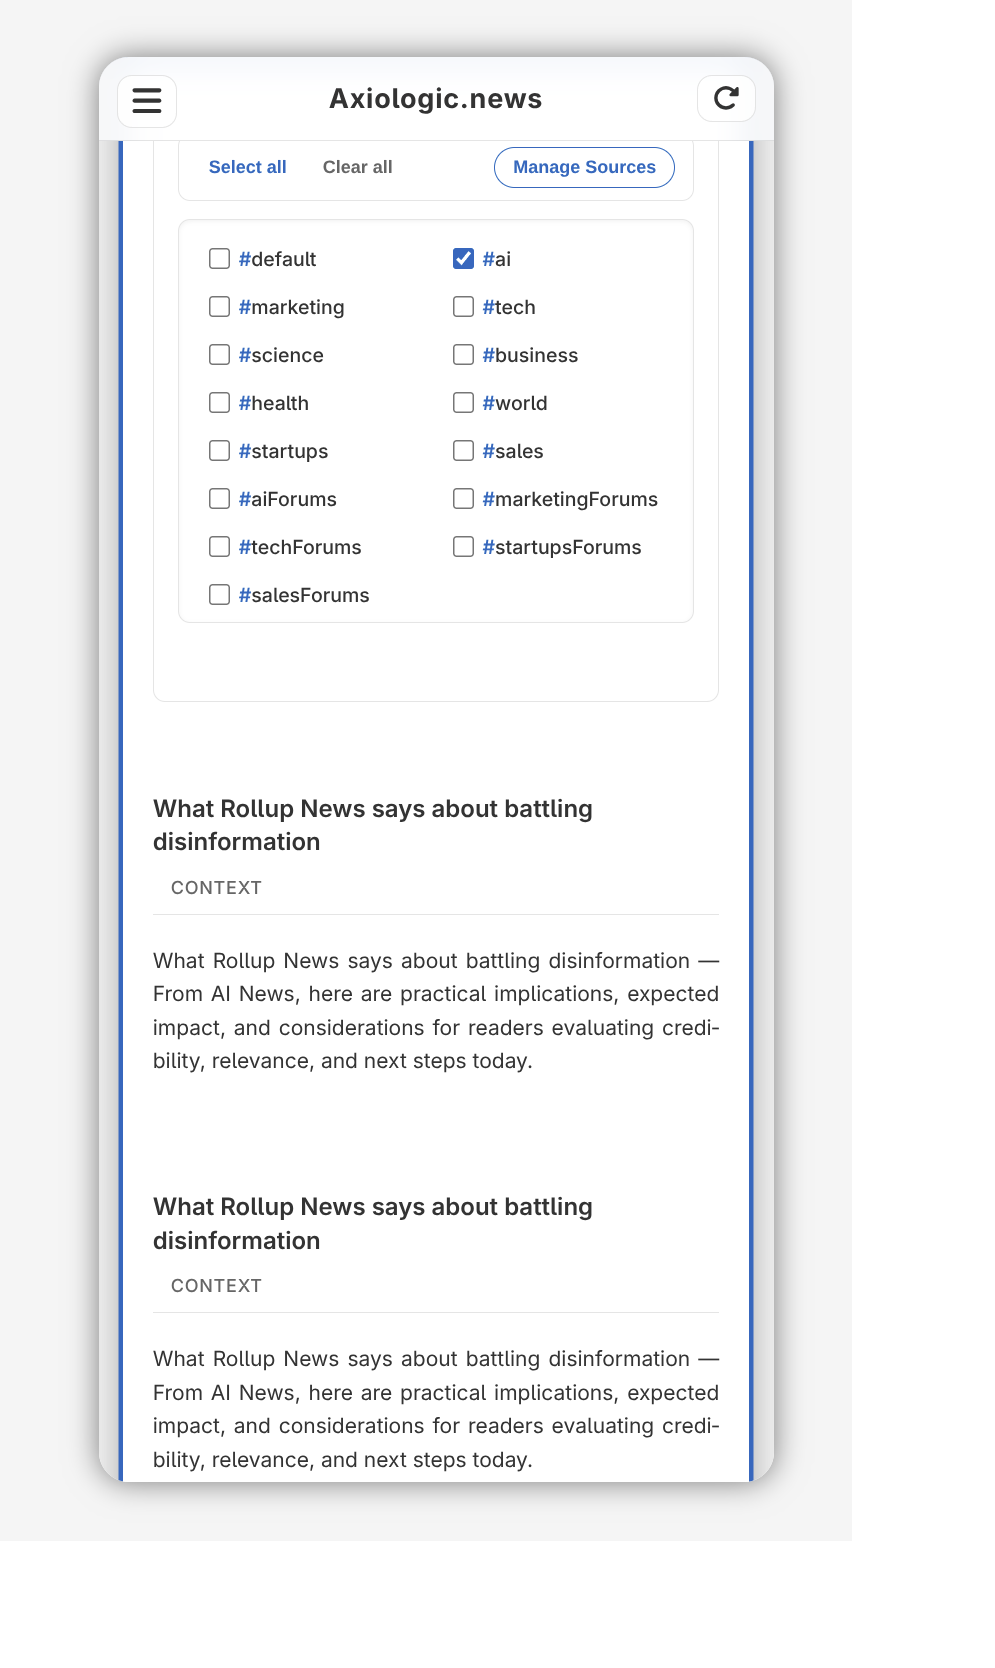
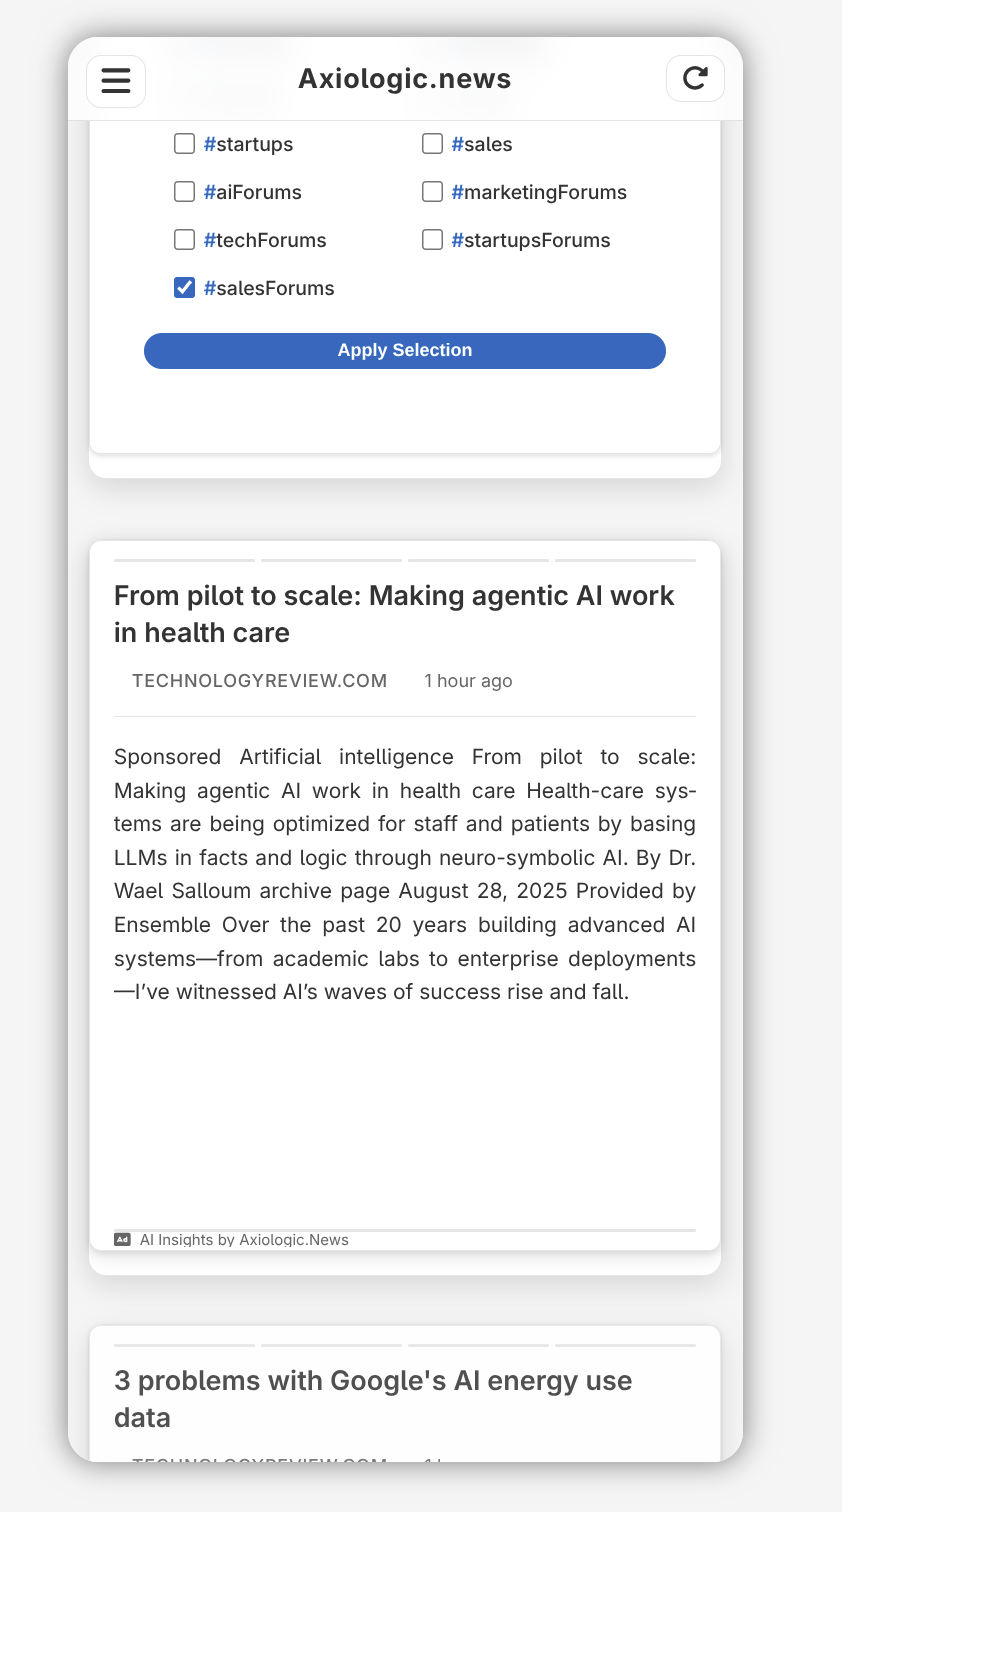
wip

Changed region(s): [[0.0312, 0.0, 0.8101, 0.9041], [0.4362, 0.4053, 0.4985, 0.4365], [0.3427, 0.0935, 0.405, 0.1247]]

diff --git a/docs/components/components/story-card/story-card.js b/docs/components/components/story-card/story-card.js
@@ -127,12 +127,13 @@ export class StoryCard {
             const rh = resume ? resume.offsetHeight : 0;
             const sh = sponsor ? sponsor.offsetHeight : 0;
             const ih = indicators ? indicators.offsetHeight : 0;
-            // base spacing + measured controls
-            const margin = 16; // breathing room
+            // base spacing + measured controls — keep this minimal
+            const margin = 8; // small breathing room
             const reserve = rh + sh + ih + margin;
-            return Math.max(40, reserve);
+            // minimal reserve to avoid clipping overlays
+            return Math.max(12, reserve);
         } catch (_) {
-            return 48;
+            return 16;
         }
     }
 
@@ -790,11 +791,13 @@ export class StoryCard {
                 const prevContentHeight = content.style.height;
                 const prevBodyOverflow = body ? body.style.overflow : null;
                 const prevBodyFlex = body ? body.style.flex : null;
+                const prevBodyPadding = body ? body.style.paddingBottom : null;
 
                 content.style.height = 'auto';
                 if (body) {
                     body.style.overflow = 'visible';
                     body.style.flex = 'initial';
+                    body.style.paddingBottom = '0px'; // do not count artificial padding in measurement
                 }
 
                 const contentHeight = Math.ceil(content.scrollHeight);
@@ -806,17 +809,28 @@ export class StoryCard {
                 if (body) {
                     body.style.overflow = prevBodyOverflow;
                     body.style.flex = prevBodyFlex;
+                    body.style.paddingBottom = prevBodyPadding;
                 }
             }
 
             const finalH = Math.min(maxTotal, maxHViewport);
+            // Fix both host and inner root heights and disable host aspect ratio
+            const hostEl = this.element;
+            if (hostEl && hostEl.style) {
+                hostEl.style.aspectRatio = 'auto';
+                hostEl.style.height = `${finalH}px`;
+            }
             root.style.height = `${finalH}px`;
             this._fixedHeight = true;
 
             const capApplied = maxTotal > maxHViewport;
             const bodies = this.element.querySelectorAll('.card-body');
             bodies.forEach(b => {
+                // Allow body to scroll only when needed
                 b.style.overflowY = capApplied ? 'auto' : 'hidden';
+                // Reduce unused whitespace on short slides
+                b.style.minHeight = '0';
+                b.style.paddingBottom = '12px';
             });
         } catch (_) { /* ignore */ }
     }

diff --git a/docs/components/page/news-feed-page/news-feed-page.js b/docs/components/page/news-feed-page/news-feed-page.js
@@ -196,10 +196,14 @@ export class NewsFeedPage {
         });
         if (window.__LOGS_ENABLED) console.timeEnd('NF: compute weights');
         if (window.__LOGS_ENABLED) console.time('NF: sort');
-        this.posts = filteredPosts.sort((a, b) => {
+        // Keep selection card pinned at index 0 regardless of weights
+        const selection = filteredPosts.find(p => p.id === 'selection-card');
+        const others = filteredPosts.filter(p => p.id !== 'selection-card');
+        const sortedOthers = others.sort((a, b) => {
             if (a.__weight !== b.__weight) return a.__weight - b.__weight;
             return b.__ts - a.__ts; // prefer newer when same weight
         });
+        this.posts = selection ? [selection, ...sortedOthers] : sortedOthers;
         if (window.__LOGS_ENABLED) console.timeEnd('NF: sort');
         if (window.__LOGS_ENABLED) console.timeEnd('NF: beforeRender total');
         if (window.__LOGS_ENABLED) window.logTS('NF: posts ready', { count: this.posts.length });
@@ -379,6 +383,10 @@ export class NewsFeedPage {
                     container.scrollTop = 0;
                 }
                 activeEl.scrollIntoView({ behavior: 'smooth', block: initialBlock });
+                // Nudge down a bit so selection actions are not hidden at the very top
+                if (this.currentStoryIndex === 0) {
+                    setTimeout(() => { try { container.scrollBy({ top: 20, left: 0, behavior: 'auto' }); } catch (_) {} }, 120);
+                }
                 this.storyCardsMap.get(this.currentStoryIndex)?.startCarousel();
                 // Ensure initial active is recorded as centered
                 await this.markAsCentered(this.currentStoryIndex);
@@ -512,6 +520,9 @@ export class NewsFeedPage {
             if (activeEl) {
                 const block = (newActive === 0) ? 'start' : 'center';
                 activeEl.scrollIntoView({ behavior: 'smooth', block });
+                if (newActive === 0) {
+                    setTimeout(() => { try { container.scrollBy({ top: 20, left: 0, behavior: 'auto' }); } catch (_) {} }, 120);
+                }
             }
         } else {
             // Maintain active class on current

diff --git a/docs/components/components/story-card/story-card.css b/docs/components/components/story-card/story-card.css
@@ -142,6 +142,7 @@
 .story-card.selection-mode .card-title { font-size: calc(16px * var(--content-scale, 1)); }
 .story-card.selection-mode .apply-sources-btn { margin-top: 6px; padding: 5px 10px; font-size: 12px; border-radius: 12px; }
 .story-card.selection-mode .sources-list { max-height: none !important; gap: 4px 6px; }
+.story-card.selection-mode .sources-list { background: transparent; border: none; box-shadow: none; }
 .story-card.selection-mode .source-item { padding: 4px 4px; }
 .story-card.selection-mode .source-checkbox { margin-right: 6px; }
 .story-card.selection-mode .card-slide.active {
@@ -151,7 +152,15 @@
 .story-card.selection-mode .data-sources-selector { 
     position: relative; 
     z-index: 101; 
-    background: var(--surface); /* prevent transparency issues */
+    background: transparent; /* keep only outer card chrome */
+    border: none;
+}
+.story-card.selection-mode .sources-actions { background: transparent; border: none; }
+.story-card.selection-mode .sources-actions {
+    position: sticky;
+    top: 12px; /* offset from very top for visibility */
+    z-index: 5;
+    pointer-events: auto;
 }
 /* ascunde elementele flotante pe cardul de selecție */
 .story-card.selection-mode .progress-bars,
@@ -223,9 +232,9 @@
     overflow-y: auto;
     overflow-x: hidden;
     padding-right: 0;
-    padding-bottom: 40px; /* space above progress + sponsor */
-    max-height: calc(100vh - 280px); /* prevent text truncation */
-    min-height: 300px; /* ensure minimum readable area */
+    padding-bottom: 16px; /* smaller bottom space */
+    max-height: calc(100vh - 220px); /* softer cap */
+    min-height: 200px; /* smaller minimum */
     scrollbar-width: thin;
     scrollbar-color: var(--border) transparent;
 }
